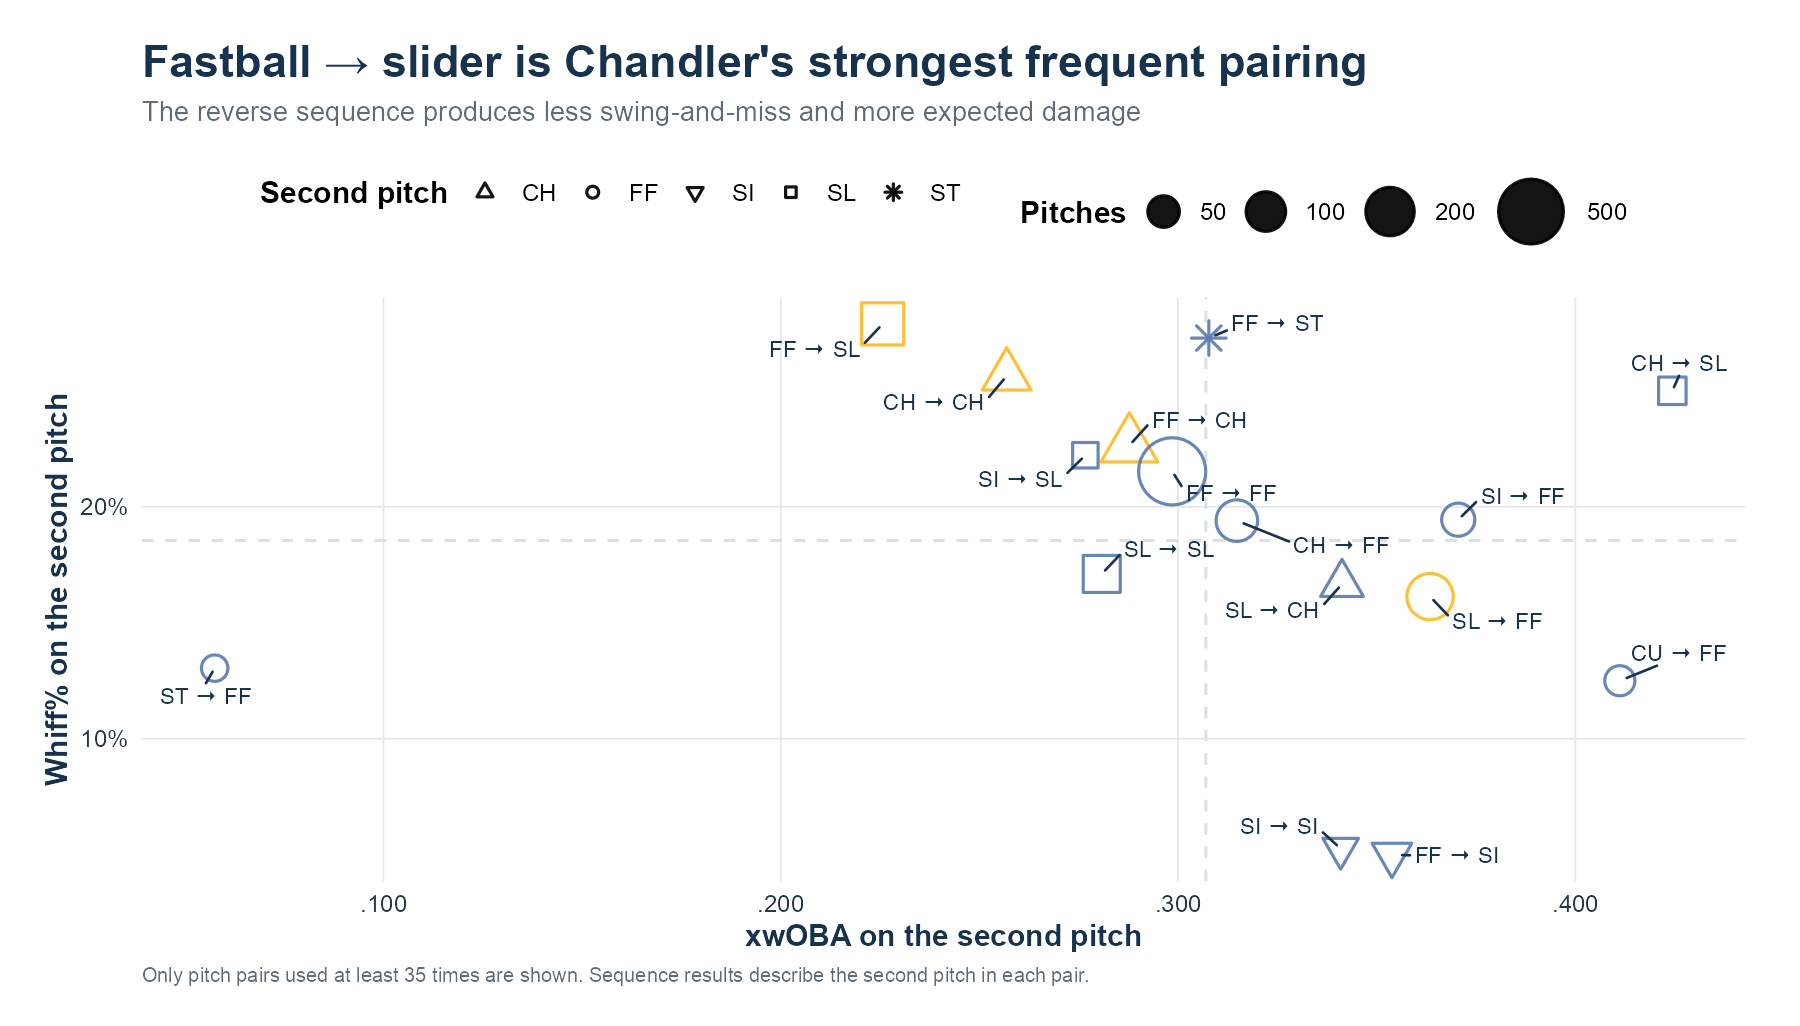
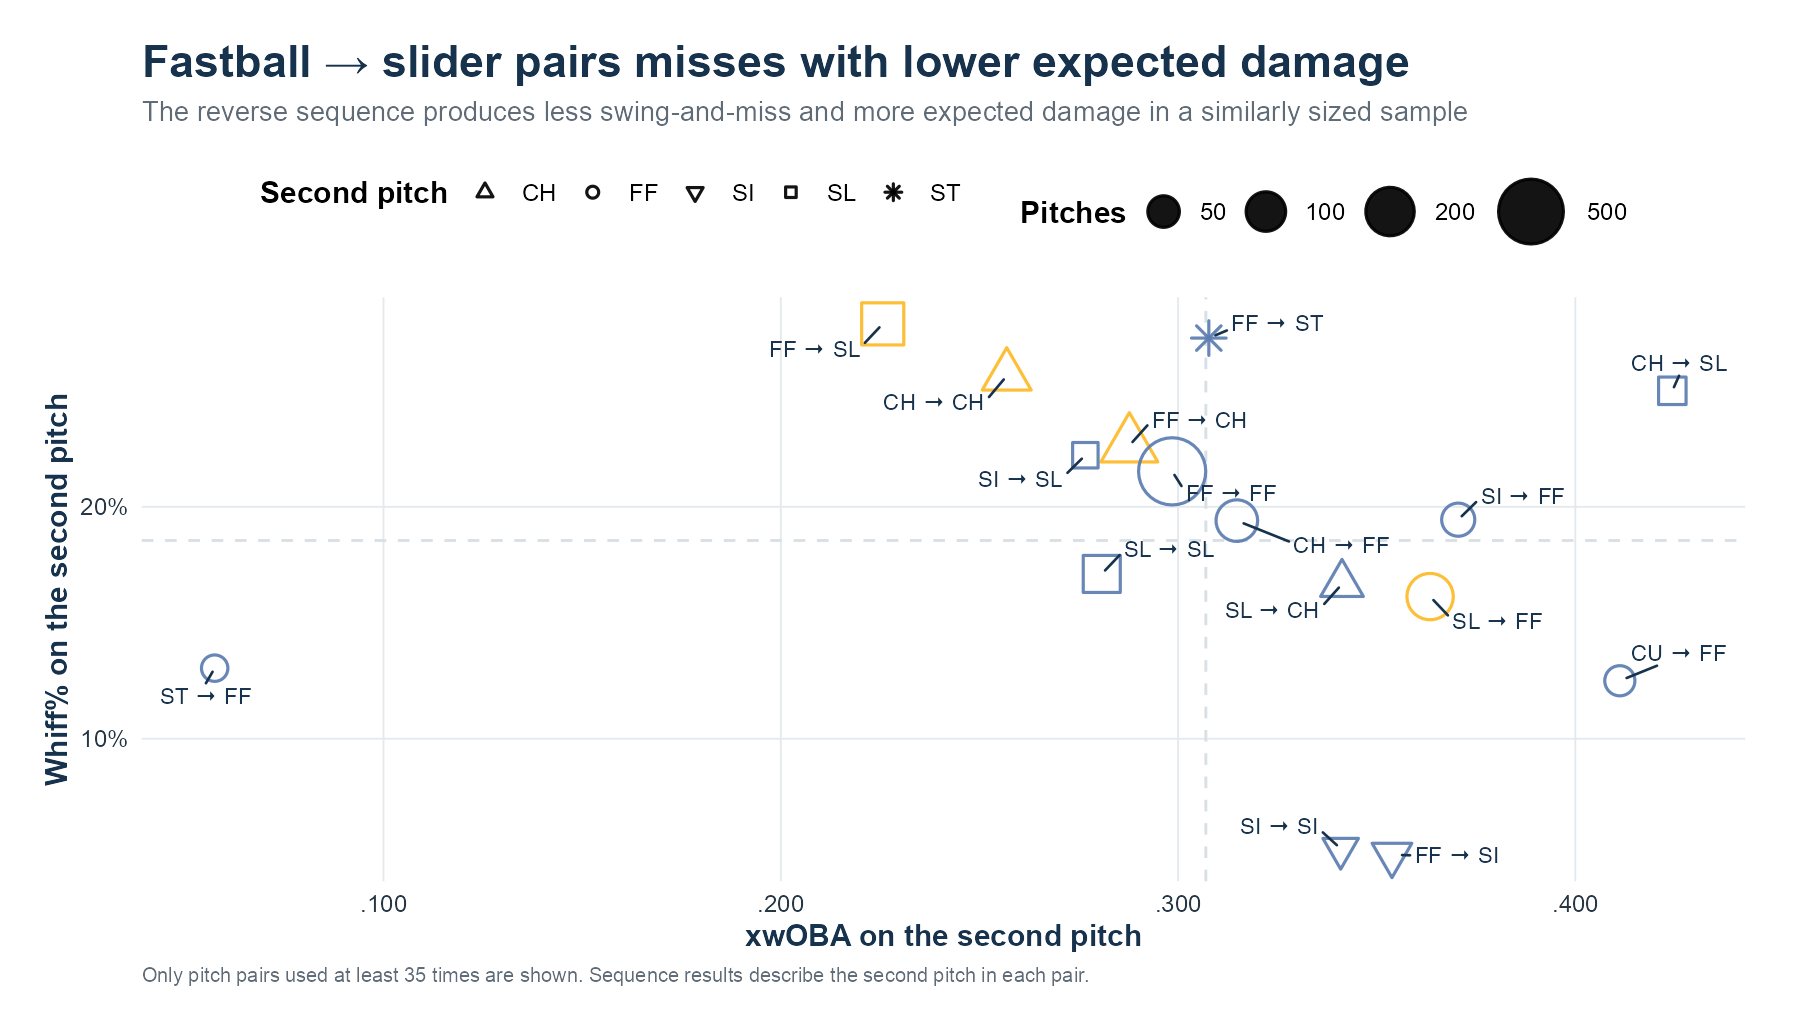
Audit and correct Bubba Chandler report metrics

Changed region(s): [[0.28, 0.0312, 0.8089, 0.1248]]

diff --git a/_players/bubba-chandler.md b/_players/bubba-chandler.md
@@ -8,7 +8,7 @@ image: /assets/img/player-analysis/bubba-chandler/bubba-chandler-profile.jpg
 metrics:
   - "98.3 mph Four-Seam"
   - ".318 xwOBA"
-  - "20.6% K%"
+  - "20.8% K%"
 summary: "An in-season R&D study of Chandler's lower arm slot, breaking-ball redesign, hitter-exposure penalty, sequencing, and role fit."
 description: Did Bubba Chandler's lower arm slot improve his starter profile, and how should the organization optimize his arsenal and usage?
 permalink: /player-analysis/bubba-chandler/
@@ -22,14 +22,14 @@ permalink: /player-analysis/bubba-chandler/
   <li>31 Games</li>
   <li>2,692 Pitches</li>
   <li>98.3 mph Four-Seam</li>
-  <li>20.6% K%</li>
-  <li>11.7% BB%</li>
+  <li>20.8% K%</li>
+  <li>11.9% BB%</li>
   <li>.318 xwOBA</li>
 </ul>
 
 ## Executive Summary
 
-Bubba Chandler made a substantial in-season mechanical adjustment. His average arm angle declined from 46.8 degrees during the high-slot phase to 38.7 degrees during the sustained low-slot phase. The lower slot improved strike throwing: BB% declined from 13.3% to 9.8%, Zone% increased from 46.9% to 50.6%, and CSW% increased from 25.2% to 26.5%. That CSW gain came from called strikes rather than additional bat-missing ability.
+Bubba Chandler made a substantial in-season mechanical adjustment. His average arm angle declined from 46.8 degrees during the high-slot phase to 38.7 degrees during the sustained low-slot phase. The lower slot improved strike throwing: BB% declined from 13.6% to 9.8%, Zone% increased from 46.9% to 50.6%, and CSW% increased from 25.2% to 26.5%. That CSW gain came from called strikes rather than additional bat-missing ability.
 
 The adjustment did not produce more deception. Whiff% declined from 22.3% to 17.4%, Chase% fell from 30.5% to 25.7%, and Hard-Hit% increased from 36.0% to 41.7%. Chandler's slider became 3.2 mph harder and gained vertical movement, but its Whiff% declined from 35.4% to 12.5%. The pitch became more useful for acquiring strikes and less effective for ending plate appearances.
 
@@ -44,7 +44,7 @@ The change was gradual rather than a single-game event. Chandler operated primar
   <figcaption>The four phases provide a more useful comparison than a calendar first-half and second-half split because they follow the actual mechanical progression.</figcaption>
 </figure>
 
-The adjustment appeared across the entire arsenal. From the high-slot period to the low-slot period, four-seam arm angle declined by approximately seven degrees, slider arm angle by six degrees, and changeup arm angle by seven degrees. Extension remained close to 6.6 feet, indicating that the change came primarily from release geometry rather than a shorter stride.
+The adjustment appeared across the entire arsenal. From the high-slot period to the low-slot period, average arm angle declined by 9.0 degrees on the four-seam, 8.6 degrees on the slider, and 8.5 degrees on the changeup. Average extension remained close to 6.6 feet across those pitch types, so the available tracking data show a large change in arm angle without a material change in extension.
 
 ## 2. Did the Lower Slot Improve Dominance?
 
@@ -54,9 +54,9 @@ The lower slot improved control but did not make Chandler more difficult to hit.
 
 | Mechanical system | Games |  PA | Arm angle |    K% |   BB% | Zone% |  CSW% | Whiff% | Chase% | Hard-Hit% | xwOBA |
 | :---------------- | ----: | --: | --------: | ----: | ----: | ----: | ----: | -----: | -----: | --------: | ----: |
-| High slot         |    14 | 301 |     46.8° | 22.6% | 13.3% | 46.9% | 25.2% |  22.3% |  30.5% |     36.0% |  .319 |
+| High slot         |    14 | 301 |     46.8° | 22.6% | 13.6% | 46.9% | 25.2% |  22.3% |  30.5% |     36.0% |  .319 |
 | Transition        |     6 | 141 |     40.8° | 15.6% | 10.6% | 48.9% | 23.4% |  18.6% |  26.7% |     39.6% |  .286 |
-| Low slot          |     9 | 194 |     38.7° | 21.1% |  9.8% | 50.6% | 26.5% |  17.4% |  25.7% |     41.7% |  .333 |
+| Low slot          |     9 | 194 |     38.7° | 21.6% |  9.8% | 50.6% | 26.5% |  17.4% |  25.7% |     41.7% |  .333 |
 | Late rebound      |     2 |  38 |     42.0° | 21.1% | 13.2% | 49.1% | 26.3% |  23.6% |  24.7% |     50.0% |  .347 |
 
 </div>
@@ -65,11 +65,11 @@ The lower slot improved control but did not make Chandler more difficult to hit.
 
 - **High slot produced the most swing-and-miss pressure.** It led the four systems in K% and Chase% and led the three meaningful samples in Whiff%. Its limitation was inefficient strike throwing, reflected in the highest BB% and lowest Zone%.
 - **Transition produced the best outcomes without the best underlying dominance.** Its .286 xwOBA and 86.7 mph average exit velocity were the best marks, but its 15.6% K% and 23.4% CSW% suggest that some of the run prevention came from favorable contact outcomes rather than a fully optimized arsenal.
-- **Low slot produced the clearest command improvement.** It delivered the lowest BB%, highest Zone%, and highest CSW%. However, the CSW profile shifted toward called strikes: Called Strike% reached 18.8%, while Whiff% fell to 17.4% and Chase% to 25.7%.
+- **Low slot produced the clearest strike-throwing improvement.** It delivered the lowest BB%, highest Zone%, and highest CSW%. However, the CSW profile shifted toward called strikes: Called Strike% reached 18.8%, while Whiff% fell to 17.4% and Chase% to 25.7%.
 - **The low slot did not suppress damaging contact.** Soft contact increased to 29.5%, but Hard-Hit% also rose to 41.7% and xwOBA deteriorated to .333. The system created more extremes rather than uniformly weaker contact.
 - **Late rebound is an experiment, not a verdict.** Whiff% recovered to 23.6% and Zone% remained near 49%, but the phase includes only two games and 38 PA. Its 50.0% Hard-Hit% and .347 xwOBA prevent a positive conclusion from that sample.
 
-The four-system comparison identifies a development target rather than a clear winner: preserve the low-slot system's strike efficiency while recovering the high-slot system's chase and swing-and-miss qualities. The transition range near 41–44 degrees remains the most logical testing window, but its favorable xwOBA should not be treated as proof of superior dominance.
+The four-system comparison identifies a development target rather than a clear winner: preserve the low-slot system's strike efficiency while recovering the high-slot system's chase and swing-and-miss qualities. An intermediate range near 40–42 degrees is a reasonable testing hypothesis because it covers the observed transition and late-rebound averages, but the favorable transition xwOBA should not be treated as proof of superior dominance.
 
 <figure class="pb-report-figure">
   <img class="pb-report-chart" src="{{ '/assets/img/player-analysis/bubba-chandler/02-deception-by-arm-slot.png' | relative_url }}" alt="Bubba Chandler swing chase whiff and strikeout rates by arm-slot phase">
@@ -83,7 +83,7 @@ Contact quality was also mixed. Soft contact increased, but Hard-Hit% moved in t
   <figcaption>The lower slot produced more batted balls below 80 mph, but it also produced more contact at 95 mph or harder.</figcaption>
 </figure>
 
-The data do not identify the lowest slot as the optimal solution. The more promising target may be the 41–44 degree range used during the transition and late-rebound periods, but the two-start rebound sample is not sufficient for a firm conclusion.
+The data do not identify the lowest slot as the optimal solution. A 40–42 degree intermediate range is worth testing because it covers the observed transition and late-rebound averages, but the two-start rebound sample is not sufficient for a firm conclusion.
 
 ## 3. How Did the Breaking-Ball System Change?
 
@@ -107,12 +107,12 @@ The sweeper was not simply relabeled as a slider. Its horizontal movement remain
 
 ## 4. How Did Slider Location Change?
 
-The high-slot slider was concentrated below the zone and near the lower glove-side edge. The low-slot version moved upward and into the strike zone. Zone% increased, but the pitch became easier to contact. The Baseball Savant maps below use the same pitch filter, catcher perspective, batter-zone adjustment, and visual scale, making the location patterns directly comparable.
+The high-slot slider was concentrated below the zone and near the lower glove-side edge. The low-slot version moved upward and into the strike zone. Zone% increased, but the pitch became easier to contact. The Baseball Savant maps below use the same pitch filter, catcher perspective, and batter-zone adjustment. They are intended to compare location patterns; color intensity should be interpreted within each normalized map rather than as an absolute density comparison between periods.
 
 <div class="pb-report-pair" role="group" aria-label="Bubba Chandler slider location comparison by arm-slot phase">
   <figure class="pb-report-panel">
     <img class="pb-report-chart" src="{{ '/assets/img/player-analysis/bubba-chandler/09a-slider-high-slot-savant.svg' | relative_url }}" alt="Baseball Savant heatmap of Bubba Chandler slider locations during the high-slot phase from March 31 through June 13">
-    <figcaption><strong>High Slot · Mar 31–Jun 13.</strong> More sliders finished near or beneath the lower boundary, supporting the pitch's stronger chase and swing-and-miss profile.</figcaption>
+    <figcaption><strong>High Slot · Mar 31–Jun 13.</strong> More sliders finished near or beneath the lower boundary, consistent with the pitch's stronger swing-and-miss profile.</figcaption>
   </figure>
   <figure class="pb-report-panel">
     <img class="pb-report-chart" src="{{ '/assets/img/player-analysis/bubba-chandler/09b-slider-low-slot-savant.svg' | relative_url }}" alt="Baseball Savant heatmap of Bubba Chandler slider locations during the low-slot phase from July 28 through September 13">
@@ -148,7 +148,7 @@ This is not proof that Chandler cannot remain a starter. It indicates that his c
 
 ## 7. Which Sequences Work Best?
 
-The most effective frequent sequence was four-seam followed by slider. The second pitch in that sequence generated 27.9% Whiff, 41.9% Chase, and .226 xwOBA. Reversing the pair was much less effective: slider followed by four-seam generated 16.1% Whiff and .363 xwOBA.
+Four-seam followed by slider produced one of Chandler's strongest combinations of bat-missing and expected results among frequently used pairs. The second pitch in that sequence generated 27.9% Whiff, 41.9% Chase, and .226 xwOBA across 187 pitches and 56 completed plate appearances. Reversing the pair was much less effective: slider followed by four-seam generated 16.1% Whiff and .363 xwOBA across 173 pitches and 53 completed plate appearances.
 
 <figure class="pb-report-figure">
   <img class="pb-report-chart" src="{{ '/assets/img/player-analysis/bubba-chandler/07-sequence-effectiveness.png' | relative_url }}" alt="Bubba Chandler pitch-pair effectiveness by whiff rate xwOBA and frequency">
@@ -184,13 +184,13 @@ Two opportunities stand out:
 - Against right-handed hitters, the changeup produced 35.1% Whiff and .192 xwOBA despite only 6.9% usage. The sweeper produced 31.3% Whiff and .216 xwOBA in a smaller sample.
 - Against left-handed hitters, the four-seam produced .353 xwOBA and the sinker .403. The changeup generated a more competitive .306 xwOBA, but its location and shape still need refinement.
 
-The organization should test more changeups against right-handed hitters and reconsider whether completely removing the sweeper gave away a useful platoon weapon.
+The organization should test more changeups against right-handed hitters and reconsider whether the sweeper's near-elimination during the low-slot phase gave away a useful platoon weapon.
 
 ## Development and Usage Recommendations
 
-### 1. Test a controlled 41–44 degree arm-slot target
+### 1. Test a controlled 40–42 degree arm-slot target
 
-The lowest slot improved control but reduced deception. The transition range produced the best expected results, and the late rebound recovered Whiff% in a very small sample. A controlled trial should compare pitch shape, command, and health feedback rather than treating the lowest repeatable slot as automatically optimal.
+The lowest slot improved strike throwing but reduced deception. The transition range produced the best expected results, and the late rebound recovered Whiff% in a very small sample. A controlled 40–42 degree trial is a development hypothesis—not a proven optimum—and should compare pitch shape, location, and health feedback rather than treating the lowest observed slot as automatically optimal.
 
 ### 2. Separate strike-getting and finishing breaking balls
 
@@ -210,13 +210,13 @@ Chandler's present profile is strongest during the first trip through the lineup
 
 ## Bottom Line
 
-Chandler's lower arm slot made his delivery more repeatable and improved strike throwing, but it did not increase dominance. The adjustment changed the slider from a bat-missing pitch into a harder strike pitch and reduced overall chase and whiff. His four-seam stuff remains strong deep into starts, so the most actionable path is to improve breaking-ball separation, sequence direction, and the plan for repeated hitter exposure.
+Chandler's lower arm slot improved strike throwing, but it did not increase dominance. The adjustment changed the slider from a bat-missing pitch into a harder strike pitch and reduced overall chase and whiff. His four-seam stuff remains strong deep into starts, so the most actionable path is to improve breaking-ball separation, sequence direction, and the plan for repeated hitter exposure.
 
-The starter foundation remains: premium fastball velocity, multiple secondary shapes, and evidence that control can improve. The next developmental step is not more raw stuff. It is organizing that stuff into a plan that remains unpredictable beyond the First PA.
+The starter foundation remains: premium fastball velocity, multiple secondary shapes, and evidence that strike throwing can improve. The next developmental step is not more raw stuff. It is organizing that stuff into a plan that remains unpredictable beyond the First PA.
 
 ## Methodology and Limitations
 
-The study uses Baseball Savant pitch-by-pitch data from March 31 through September 25, 2026. Whiff% is misses divided by swings. Chase% is swings at pitches outside the Statcast zone. Soft contact is defined as batted balls below 80 mph, and Hard-Hit% as batted balls at 95 mph or harder. Mechanical phases follow sustained game-level arm-angle changes.
+The study uses Baseball Savant pitch-by-pitch data from March 31 through September 25, 2026. K% includes strikeout double plays, and BB% includes intentional walks. Whiff% is misses divided by swings. Chase% is swings at pitches outside the Statcast zone. Soft contact is defined as batted balls below 80 mph, and Hard-Hit% as batted balls at 95 mph or harder. xwOBA is the mean of Baseball Savant's `estimated_woba_using_speedangle` values on completed plate appearances for which the field is available. Mechanical phases follow sustained game-level arm-angle changes.
 
 Pitch-level expected results, sequence splits, and late-season phases include different sample sizes. Sequence results are influenced by count, location, batter quality, and selection. The analysis identifies development hypotheses and testing priorities; it does not establish that the arm-slot change caused every downstream result.
 
